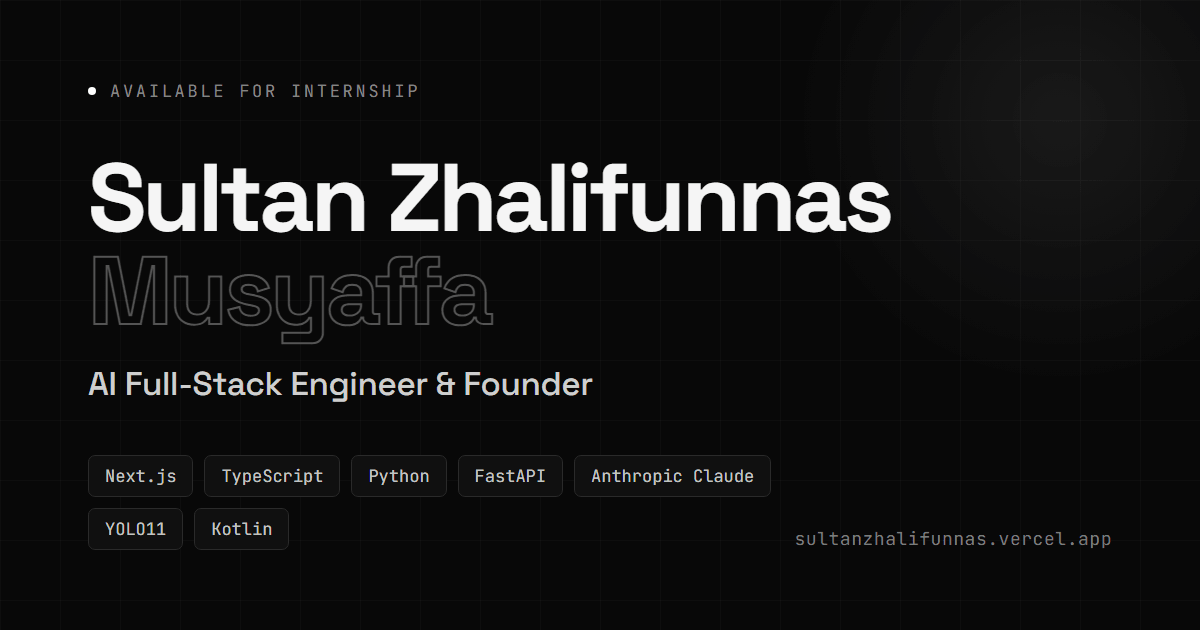
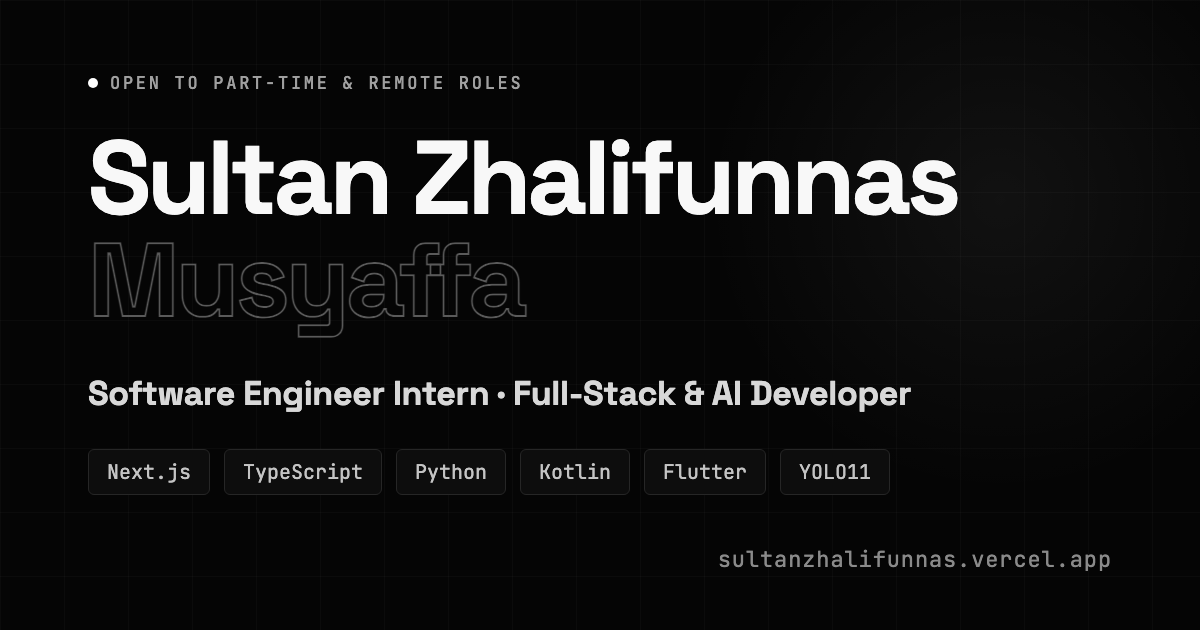
quality: contrast, reduced motion, fonts, SEO metadata, OG image
- Raised 26 grey text colors that failed WCAG AA (#555-#7a7a7a) to #808080
  and --text-4 to match; hid the decorative footer watermark from AT.
- MotionConfig reducedMotion=user so Framer Motion respects the OS setting.
- Trimmed Google Fonts to the weights actually used (13 -> 9).
- Title, meta/OG/Twitter descriptions, JSON-LD jobTitle and keywords match
  the CV; sitemap lastmod updated; new og-image.png (no more 'Available
  for Internship').
- README documents where content lives and the EmailJS env vars.

diff --git a/index.html b/index.html
@@ -6,38 +6,38 @@
     <meta name="viewport" content="width=device-width, initial-scale=1.0" />
     <meta name="theme-color" content="#000000" />
     <meta name="author" content="Sultan Zhalifunnas Musyaffa" />
-    <meta name="description" content="Sultan Zhalifunnas — AI-focused full-stack developer building web, mobile, and AI products end to end, from system design through deployment." />
-    <meta name="keywords" content="Sultan Zhalifunnas, portfolio, AI engineer, full-stack developer, software engineer, React, Next.js, Python, FastAPI, Anthropic Claude, YOLO11, internship, Bekasi" />
+    <meta name="description" content="Informatics student (Cyber Security) and Software Engineer Intern at Kementerian PANRB. I build web, mobile, and AI projects. Open to part-time or remote roles." />
+    <meta name="keywords" content="Sultan Zhalifunnas, portfolio, full-stack developer, AI developer, software engineer intern, React, Next.js, Python, FastAPI, Kotlin, Flutter, YOLO11, Bekasi" />
     <link rel="canonical" href="https://sultanzhalifunnas.vercel.app/" />
 
     <!-- Open Graph -->
-    <meta property="og:title" content="Sultan Zhalifunnas | AI Full-Stack Engineer" />
-    <meta property="og:description" content="AI-focused full-stack developer building web, mobile, and AI products end to end. Currently a Software Engineer Intern at Kementerian PANRB." />
+    <meta property="og:title" content="Sultan Zhalifunnas | Full-Stack &amp; AI Developer" />
+    <meta property="og:description" content="Informatics student (Cyber Security) and Software Engineer Intern at Kementerian PANRB. I build web, mobile, and AI projects. Open to part-time or remote roles." />
     <meta property="og:type" content="website" />
     <meta property="og:url" content="https://sultanzhalifunnas.vercel.app/" />
     <meta property="og:site_name" content="Sultan Zhalifunnas" />
     <meta property="og:image" content="https://sultanzhalifunnas.vercel.app/og-image.png" />
     <meta property="og:image:width" content="1200" />
     <meta property="og:image:height" content="630" />
-    <meta property="og:image:alt" content="Sultan Zhalifunnas Musyaffa — AI Full-Stack Engineer" />
+    <meta property="og:image:alt" content="Sultan Zhalifunnas Musyaffa — Full-Stack &amp; AI Developer" />
 
     <!-- Twitter -->
     <meta name="twitter:card" content="summary_large_image" />
-    <meta name="twitter:title" content="Sultan Zhalifunnas | AI Full-Stack Engineer" />
-    <meta name="twitter:description" content="AI-focused full-stack developer building web, mobile, and AI products end to end. Currently a Software Engineer Intern at Kementerian PANRB." />
+    <meta name="twitter:title" content="Sultan Zhalifunnas | Full-Stack &amp; AI Developer" />
+    <meta name="twitter:description" content="Informatics student (Cyber Security) and Software Engineer Intern at Kementerian PANRB. I build web, mobile, and AI projects. Open to part-time or remote roles." />
     <meta name="twitter:image" content="https://sultanzhalifunnas.vercel.app/og-image.png" />
     <link rel="preconnect" href="https://fonts.googleapis.com">
     <link rel="preconnect" href="https://fonts.gstatic.com" crossorigin>
     <link
       rel="stylesheet"
-      href="https://fonts.googleapis.com/css2?family=Inter:wght@300;400;500;600;700;800&family=Space+Grotesk:wght@400;500;600;700;800&family=JetBrains+Mono:wght@400;500&display=swap"
+      href="https://fonts.googleapis.com/css2?family=Inter:wght@400;500;600;700&family=Space+Grotesk:wght@700;800&family=JetBrains+Mono:wght@400;500;600&display=swap"
       media="print"
       onload="this.media='all'"
     />
     <noscript>
-      <link rel="stylesheet" href="https://fonts.googleapis.com/css2?family=Inter:wght@300;400;500;600;700;800&family=Space+Grotesk:wght@400;500;600;700;800&family=JetBrains+Mono:wght@400;500&display=swap" />
+      <link rel="stylesheet" href="https://fonts.googleapis.com/css2?family=Inter:wght@400;500;600;700&family=Space+Grotesk:wght@700;800&family=JetBrains+Mono:wght@400;500;600&display=swap" />
     </noscript>
-    <title>Sultan Zhalifunnas | AI Full-Stack Engineer</title>
+    <title>Sultan Zhalifunnas | Full-Stack &amp; AI Developer</title>
 
     <!-- Structured data for rich search results -->
     <script type="application/ld+json">
@@ -47,8 +47,8 @@
       "name": "Sultan Zhalifunnas Musyaffa",
       "url": "https://sultanzhalifunnas.vercel.app/",
       "image": "https://sultanzhalifunnas.vercel.app/og-image.png",
-      "jobTitle": "AI Full-Stack Engineer",
-      "description": "AI-focused full-stack developer building web, mobile, and AI products end to end, from system design through deployment.",
+      "jobTitle": "Software Engineer Intern",
+      "description": "Informatics student (Cyber Security) and Software Engineer Intern at Kementerian PANRB. I build web, mobile, and AI projects. Open to part-time or remote roles.",
       "email": "mailto:sultanzhalifunnasmusyaffa@gmail.com",
       "alumniOf": {
         "@type": "CollegeOrUniversity",
@@ -59,7 +59,7 @@
         "addressLocality": "Bekasi",
         "addressCountry": "ID"
       },
-      "knowsAbout": ["React", "Next.js", "TypeScript", "Python", "FastAPI", "Android", "Kotlin", "Artificial Intelligence", "Anthropic Claude", "Computer Vision", "Penetration Testing"],
+      "knowsAbout": ["React", "Next.js", "TypeScript", "Python", "FastAPI", "Android", "Kotlin", "Flutter", "Artificial Intelligence", "Computer Vision", "Network Security"],
       "sameAs": [
         "https://github.com/SultanZhalifa",
         "https://linkedin.com/in/sultanzhalifunnasmusyaffa"

diff --git a/src/App.jsx b/src/App.jsx
@@ -1,3 +1,4 @@
+import { MotionConfig } from 'framer-motion';
 import './index.css';
 import Navbar         from './components/Navbar';
 import Hero           from './components/Hero';
@@ -13,7 +14,8 @@ import BackToTop      from './components/BackToTop';
 
 export default function App() {
   return (
-    <>
+    // reducedMotion="user": skip transform/layout animations for people who ask the OS for less motion
+    <MotionConfig reducedMotion="user">
       <a href="#main-content" className="skip-link">Skip to content</a>
       <SideNav />
       <BackToTop />
@@ -28,6 +30,6 @@ export default function App() {
         <Contact />
       </main>
       <Footer />
-    </>
+    </MotionConfig>
   );
 }

diff --git a/src/components/Footer.jsx b/src/components/Footer.jsx
@@ -18,7 +18,7 @@ export default function Footer() {
     >
       <div className="container">
         {/* Large Signature Typography Watermark */}
-        <div style={{
+        <div aria-hidden="true" style={{
           fontFamily: 'var(--font-display)',
           fontWeight: 800,
           fontSize: 'clamp(1.6rem, 4.5vw, 3.2rem)',
@@ -44,7 +44,7 @@ export default function Footer() {
           <span style={{
             fontFamily: 'var(--font-mono)',
             fontSize: '0.68rem',
-            color: '#707070',
+            color: '#808080',
             letterSpacing: '0.06em',
           }}>
             &copy; {year} Sultan Zhalifunnas Musyaffa · Built with React 19 + Framer Motion

diff --git a/src/components/Now.jsx b/src/components/Now.jsx
@@ -57,7 +57,7 @@ export default function Now() {
 
             {time && (
               <div className="now-time-pill" title="Current Local Time in Bekasi / Jakarta (UTC+7)">
-                <FiClock size={11} style={{ color: '#777777' }} />
+                <FiClock size={11} style={{ color: '#808080' }} />
                 <span>Bekasi, ID · {time}</span>
               </div>
             )}
@@ -156,7 +156,7 @@ export default function Now() {
           line-height: 1.5;
         }
         .now-bullet {
-          color: #555555;
+          color: #808080;
           flex-shrink: 0;
           font-family: var(--font-mono);
           font-size: 0.65rem;

diff --git a/src/components/Navbar.jsx b/src/components/Navbar.jsx
@@ -61,7 +61,7 @@ export default function Navbar() {
         {/* Brand Logo */}
         <a href="#hero" style={{ textDecoration: 'none', display: 'inline-flex', alignItems: 'center', gap: '4px' }}>
           <span style={{ fontFamily: 'Space Grotesk', fontWeight: 800, fontSize: '1.1rem', color: '#ffffff', letterSpacing: '-0.03em' }}>
-            Sultan<span style={{ color: '#555555' }}>.</span>
+            Sultan<span style={{ color: '#808080' }}>.</span>
           </span>
         </a>
 

diff --git a/src/index.css b/src/index.css
@@ -30,7 +30,7 @@ html, body {
   --text-1:     #f8f8f8;
   --text-2:     #a0a0a0;
   --text-3:     #7e7e7e;
-  --text-4:     #555555;
+  --text-4:     #808080;
   --text-5:     #1f1f1f;
 
   --font-main:    'Inter', -apple-system, BlinkMacSystemFont, 'Segoe UI', Roboto, sans-serif;

diff --git a/README.md b/README.md
@@ -14,7 +14,7 @@
 - **Projects** — Filterable list with expandable rows, previews & case-study modals
 - **Experience & Education** — Timeline layout with activities
 - **Certifications** — Google, IBM, Dicoding, RevoU, and other verified credentials
-- **Contact** — EmailJS form + live GitHub activity + direct contact links
+- **Contact** — EmailJS form (with honeypot) + direct contact links; the Projects section ends with a small live GitHub block
 
 ## Tech Stack
 
@@ -23,9 +23,24 @@
 | Framework | React 19 + Vite 8 |
 | Animations | Framer Motion |
 | Icons | React Icons (Feather) |
-| Email | EmailJS |
+| Email | EmailJS (`@emailjs/browser`) |
 | Fonts | Inter · Space Grotesk · JetBrains Mono |
 | Deploy | Vercel |
+
+## Content
+
+Almost everything on the page comes from `src/data.js`. The hero stats (project count, AI apps, certificates) are computed from it, so they stay in sync when you add a project (`ai: true` marks apps that call an AI model).
+The resume is `public/Sultan_CV.pdf`; replace the file to update the download.
+
+## Contact form setup
+
+The form only works if these are set in Vercel (Project Settings → Environment Variables) and the site is redeployed. Without them the form says it can't send and shows the email address instead.
+
+```
+VITE_EMAILJS_SERVICE_ID
+VITE_EMAILJS_TEMPLATE_ID
+VITE_EMAILJS_PUBLIC_KEY
+```
 
 ## Run Locally
 
